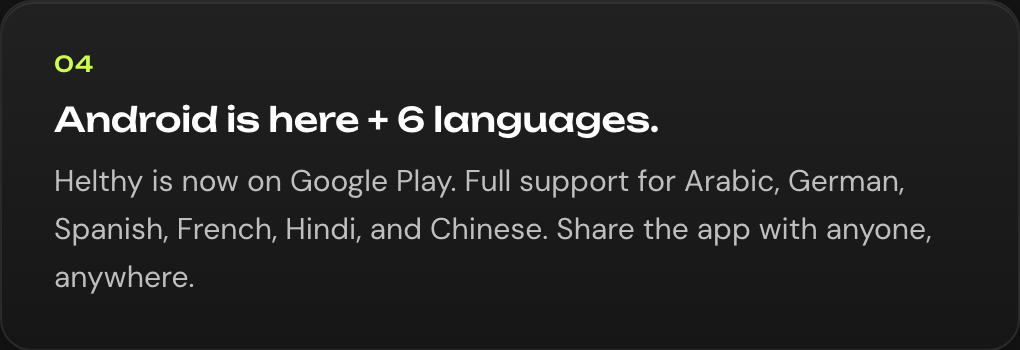
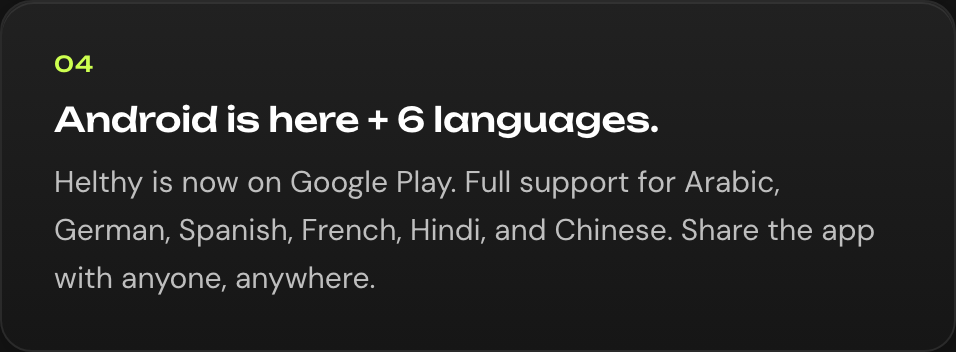
Update hero image dimensions and optimize email template layout for v2 launch

diff --git a/email-templates/v2-launch/email.html b/email-templates/v2-launch/email.html
@@ -50,9 +50,9 @@
               <img
                 src="img/hero-block.png"
                 alt="We rebuilt Helthy. Here's what's new. v2 is live on iOS and Android."
-                width="560"
-                height="349"
-                style="display:block;width:100%;max-width:560px;height:auto;border:0;" />
+                width="528"
+                height="375"
+                style="display:block;width:100%;max-width:528px;height:auto;border:0;" />
             </td>
           </tr>
 

diff --git a/email-templates/v2-launch/source.html b/email-templates/v2-launch/source.html
@@ -47,7 +47,7 @@
           <!-- ── HERO: header + accent line + headline + intro, all in one cropped block ── -->
           <tr>
             <td style="padding:0;">
-              <div data-email-crop="hero-block" data-email-bg="#111111" style="width:560px;">
+              <div data-email-crop="hero-block" data-email-bg="#111111">
                 <!-- Header with logo -->
                 <div style="background-color:#111111;padding:28px 40px;text-align:center;">
                   <img
